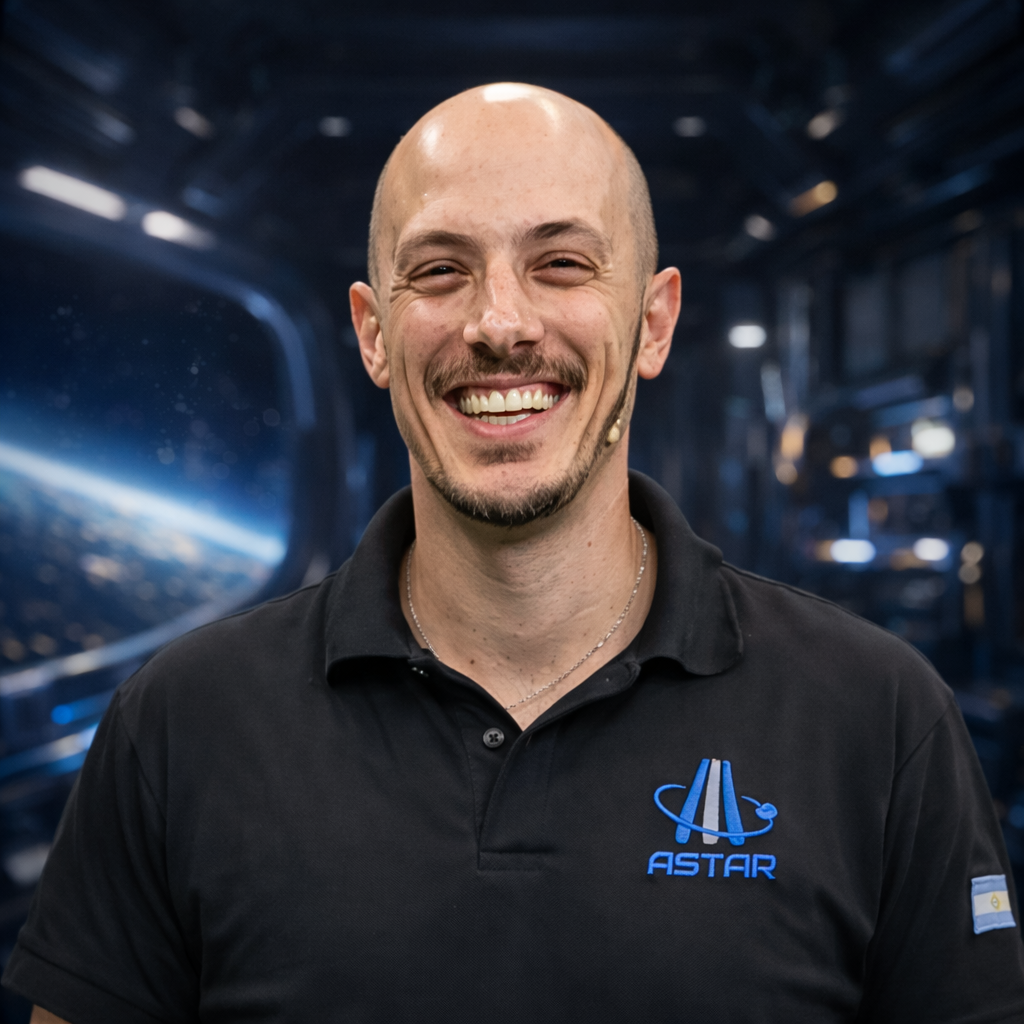
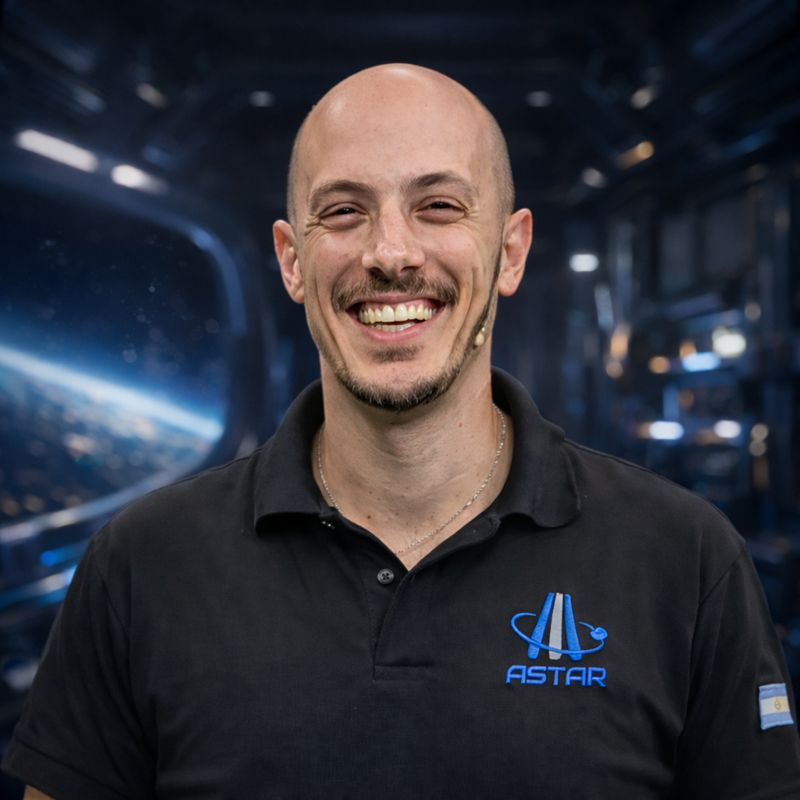
feat: Redesign the "About / Journey" section with updated image styling and layout.

diff --git a/index.html b/index.html
@@ -424,32 +424,44 @@
     <!-- About / Journey Section -->
     <section id="about" class="relative py-24 px-6">
         <div class="max-w-4xl mx-auto">
-            <div class="flex flex-col md:flex-row items-start gap-8 mb-16">
-                <div class="flex-shrink-0">
+            <!-- Seccion Trayectoria Header -->
+            <div class="flex flex-col md:flex-row items-center md:items-start gap-2 md:gap-10 mb-12">
+                <!-- Mobile Label -->
+                <span class="md:hidden text-xs font-mono tracking-widest text-glow mb-6">TRAYECTORIA</span>
+
+                <div class="flex-shrink-0 mb-8 md:mb-0">
                     <div class="relative">
-                        <div class="absolute inset-0 bg-glow/20 rounded-full blur-xl animate-pulse"></div>
+                        <div class="absolute inset-[-6px] rounded-full border border-glow/20"></div>
                         <img src="fernando.png" alt="Fernando Filippetti"
-                            class="relative w-24 h-24 md:w-32 md:h-32 rounded-full border-2 border-glow/30 object-cover shadow-2xl">
+                            class="relative w-40 h-40 md:w-32 md:h-32 rounded-full object-cover shadow-[0_0_30px_rgba(56,189,248,0.15)]">
                     </div>
                 </div>
-                <div class="flex-1">
-                    <span class="inline-block text-xs font-mono tracking-widest text-glow mb-4">TRAYECTORIA</span>
-                    <h2 class="text-3xl md:text-4xl font-light text-ice mb-6">Del laboratorio universitario a estándares
-                        de misión espacial</h2>
-                    <p class="text-silver text-lg leading-relaxed max-w-2xl">
-                        Empecé en electrónica con un fuerte interés en sistemas complejos, comunicaciones y construir
-                        cosas que funcionen bajo restricciones reales. Con el tiempo, eso me llevó al ecosistema
-                        universitario, equipos de estudiantes, y eventualmente a proyectos aeroespaciales que requieren
-                        disciplina de grado de misión.
-                    </p>
+
+                <div class="text-center md:text-left">
+                    <!-- Desktop Label -->
+                    <span
+                        class="hidden md:inline-block text-xs font-mono tracking-widest text-glow mb-2">TRAYECTORIA</span>
+                    <h2 class="text-2xl md:text-4xl font-light text-ice leading-tight tracking-tight">Del laboratorio
+                        universitario a estándares de misión espacial</h2>
                 </div>
+            </div>
+
+            <!-- Párrafo Independiente -->
+            <div class="mb-20">
+                <p class="text-silver text-lg md:text-xl leading-relaxed">
+                    Empecé en electrónica con un fuerte interés en sistemas complejos, comunicaciones y construir cosas
+                    que funcionen bajo restricciones reales. Con el tiempo, eso me llevó al ecosistema universitario,
+                    equipos de estudiantes, y eventualmente a proyectos aeroespaciales que requieren disciplina de grado
+                    de misión.
+                </p>
             </div>
 
             <div class="space-y-12">
                 <div class="timeline-item pb-8">
                     <span class="text-xs font-mono text-glow tracking-wider">FASE 01</span>
                     <h3 class="text-xl text-ice mt-2 mb-2">Fundamentos</h3>
-                    <p class="text-silver text-sm leading-relaxed">Background en ingeniería electrónica. Foco inicial en
+                    <p class="text-silver text-sm leading-relaxed">Background en ingeniería
+                        electrónica. Foco inicial en
                         sistemas embebidos, comunicaciones e instrumentación. Primeras construcciones serias en
                         proyectos académicos y prácticos.</p>
                 </div>
@@ -457,7 +469,8 @@
                 <div class="timeline-item pb-8">
                     <span class="text-xs font-mono text-glow tracking-wider">FASE 02</span>
                     <h3 class="text-xl text-ice mt-2 mb-2">Universidad + construcción de equipos</h3>
-                    <p class="text-silver text-sm leading-relaxed">Docencia y mentoría. Trabajo con grupos
+                    <p class="text-silver text-sm leading-relaxed">Docencia y mentoría.
+                        Trabajo con grupos
                         interdisciplinarios. Construcción de procesos de ingeniería repetibles: documentación, testing,
                         revisiones.</p>
                 </div>
@@ -465,7 +478,8 @@
                 <div class="timeline-item pb-8">
                     <span class="text-xs font-mono text-glow tracking-wider">FASE 03</span>
                     <h3 class="text-xl text-ice mt-2 mb-2">Foco aeroespacial</h3>
-                    <p class="text-silver text-sm leading-relaxed">Iniciativa ASTAR y enfoque de desarrollo CubeSat.
+                    <p class="text-silver text-sm leading-relaxed">Iniciativa ASTAR y
+                        enfoque de desarrollo CubeSat.
                         Colaboración con instituciones nacionales. Transición de prototipos a pensamiento de
                         requerimientos de vuelo.</p>
                 </div>
@@ -473,7 +487,8 @@
                 <div class="timeline-item">
                     <span class="text-xs font-mono text-artemis tracking-wider">FASE 04 — ACTUAL</span>
                     <h3 class="text-xl text-ice mt-2 mb-2">Artemis II / ATENEA</h3>
-                    <p class="text-silver text-sm leading-relaxed">Trabajo conectado con ATENEA como carga útil CubeSat
+                    <p class="text-silver text-sm leading-relaxed">Trabajo conectado con
+                        ATENEA como carga útil CubeSat
                         internacional para Artemis II. Restricciones de ingeniería para contexto de misión tripulada:
                         seguridad, integración, procedimientos.</p>
                 </div>
